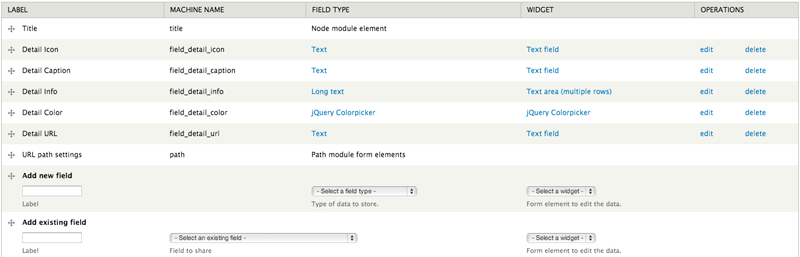
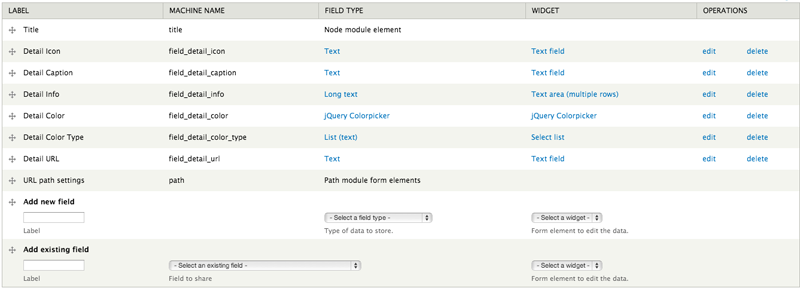
-Updated docs, fixed margin on post image slider.

diff --git a/documentation/index.html b/documentation/index.html
@@ -16,7 +16,7 @@
 <div id="wrapper">
 <h2>Overview</h2>
 <p>Goodnex is powerful and ultra-responsive theme which can perfectly serve any type of business, freelance or interactive creative sphere. For theme support that cannot be found in this documentation, please visit our <a href="http://refaktorthemes.com/support"> support forum</a>. 
-<p>Updated: 09/05/13<br>Author: <a href="http://refaktorthemes.com" target="_blank">Refaktor</a><br>Docs powered by: <a href="https://github.com/jgallen23/toc" target="_blank">TOC</a><br>Original design by <a href="http://themeforest.net/user/
+<p>Updated: 09/17/13<br>Author: <a href="http://refaktorthemes.com" target="_blank">Refaktor</a><br>Docs powered by: <a href="https://github.com/jgallen23/toc" target="_blank">TOC</a><br>Original design by <a href="http://themeforest.net/user/
 ThemeMakers" target="_blank">
 ThemeMakers</a></p>
 <h2>Installation</h2>
@@ -182,6 +182,7 @@ Goodnex also includes support for a "Recent Works" block that you can use to sho
 <li><strong>Detail Caption:</strong> The title caption you wish to use with your detail box.</li>
 <li><strong>Detail Info:</strong> A longer text description for your detail box.</li>
 <li><strong>Detail Color:</strong> If you wish to select a color for your box use the color picker.</li>
+<li><strong>Detail Color Type:</strong> Select list field for selecting the placement of the color if the "Detail Color" field is used. Use "Background" and "Hover" as the two options.</li>
 <li><strong>Detail URL:</strong> Add an optional URL for your detail box.</li>
 </ul>
 

diff --git a/css/drupal.css b/css/drupal.css
@@ -20,6 +20,7 @@ ol {
 .social-icons, 
 nav ul, ul.clients-items, 
 .image-gallery-slider ul,
+.image-post-slider ul,
 .ajax-nav,
 .widget ul,
 .flickr-badge,
